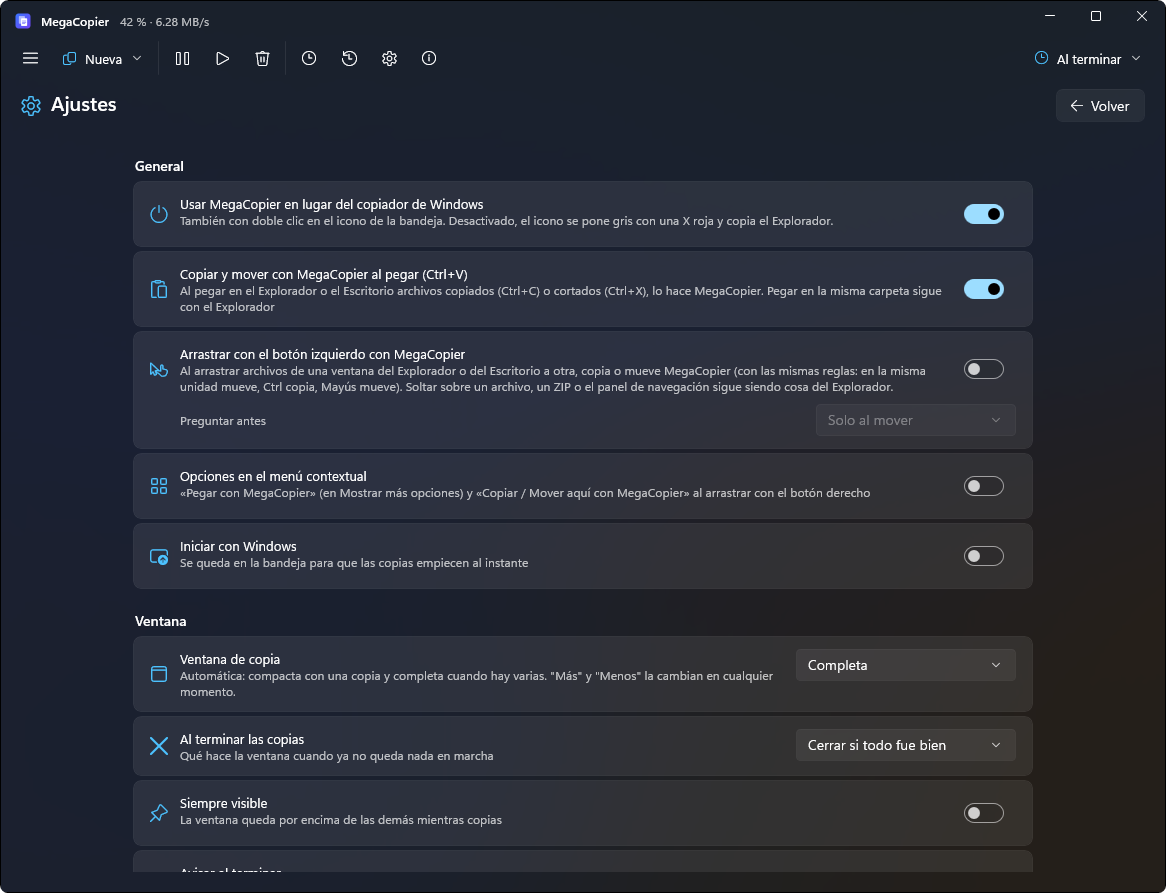
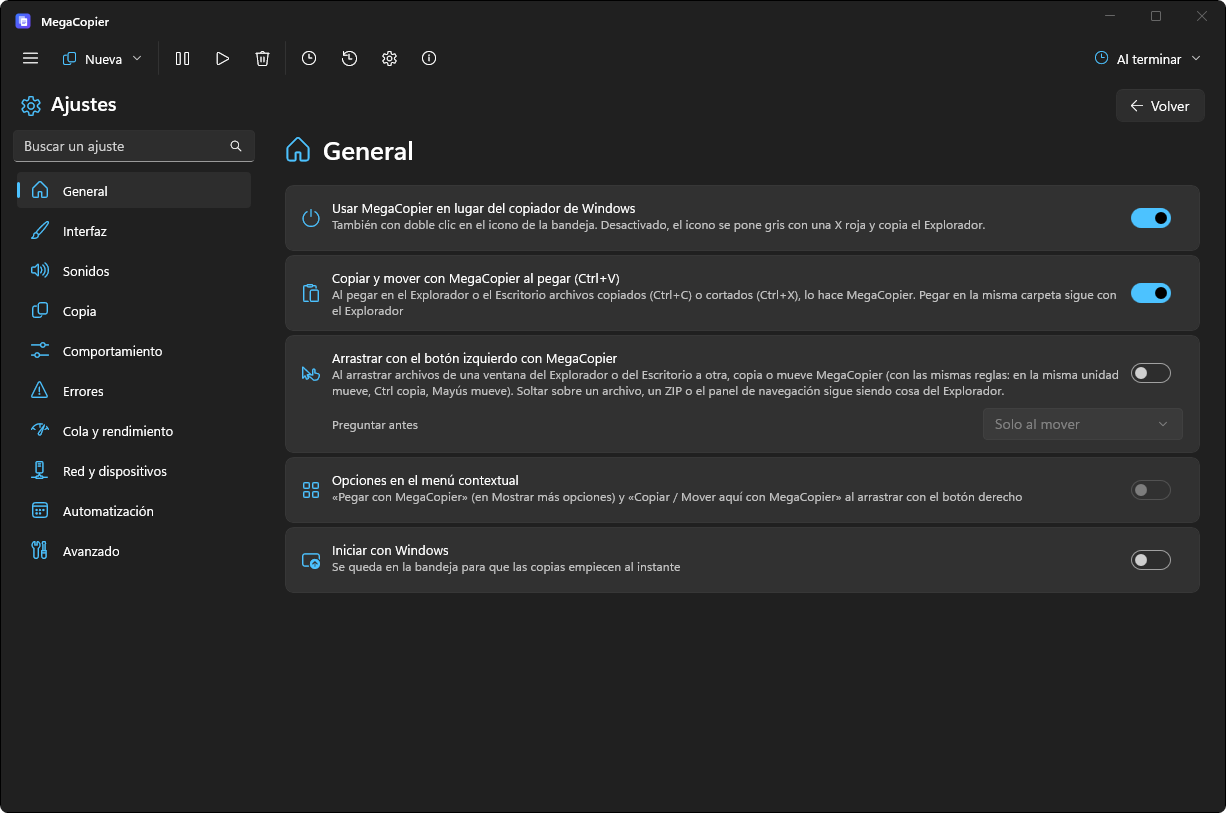
Arreglos de los ajustes (ancho del contenido, animación por traslación, halo neón al arrancar) y capturas nuevas: ajustes, 28 temas y 7 conjuntos de iconos

diff --git a/src/MegaCopier.App/Views/SettingsPage.xaml b/src/MegaCopier.App/Views/SettingsPage.xaml
@@ -55,8 +55,8 @@
                     <c:McIcon x:Name="SectionIcon" FontSize="26" Accent="True" VerticalAlignment="Center" />
                     <TextBlock x:Name="SectionTitle" Style="{StaticResource McTitle}" FontSize="26" VerticalAlignment="Center" TextWrapping="Wrap" />
                 </StackPanel>
-                <ScrollViewer x:Name="SectionScroll" Grid.Row="1" Padding="24,0,24,20">
-            <StackPanel x:Name="SectionsHost" MaxWidth="900" HorizontalAlignment="Stretch">
+                <ScrollViewer x:Name="SectionScroll" Grid.Row="1" Padding="24,0,24,20" HorizontalScrollMode="Disabled" HorizontalScrollBarVisibility="Disabled">
+            <StackPanel x:Name="SectionsHost" MaxWidth="980" HorizontalAlignment="Left">
                 <InfoBar x:Name="RestartInfo" x:Uid="RestartInfo" Severity="Informational" IsClosable="False" IsOpen="False" Margin="0,8,0,0">
                     <InfoBar.ActionButton>
                         <Button x:Uid="RestartButton" Click="Restart_Click" />
@@ -409,7 +409,7 @@
                     <StackPanel Spacing="8">
                         <Grid Style="{StaticResource Row}" Tag="SettingRow">
                             <Grid.ColumnDefinitions><ColumnDefinition Width="Auto" /><ColumnDefinition Width="*" /><ColumnDefinition Width="Auto" /></Grid.ColumnDefinitions>
-                            <c:McIcon VerticalAlignment="Center" Glyph="&#xE7E7;" FontSize="18" Accent="True" />
+                            <c:McIcon VerticalAlignment="Center" Glyph="&#xE88E;" FontSize="18" Accent="True" />
                             <StackPanel Grid.Column="1"><TextBlock x:Name="EjectTitleLabel" x:Uid="Settings_EjectTitle" Style="{StaticResource McBody}" TextWrapping="Wrap" /><TextBlock x:Uid="Settings_EjectDescription" Style="{StaticResource McSecondary}" TextWrapping="Wrap" /></StackPanel>
                             <ToggleSwitch x:Name="EjectToggle" AutomationProperties.LabeledBy="{x:Bind EjectTitleLabel}" Grid.Column="2" OnContent="" OffContent="" MinWidth="0" Toggled="Changed" />
                         </Grid>

diff --git a/src/MegaCopier.App/Views/SettingsPage.Sections.cs b/src/MegaCopier.App/Views/SettingsPage.Sections.cs
@@ -245,6 +245,8 @@ public sealed partial class SettingsPage
     /// <summary>La sección nueva entra deslizándose y apareciendo.</summary>
     private static void SlideIn(UIElement element)
     {
+        // Translation (no Offset): Offset lo pone el diseño de la página y animarlo descoloca el contenido.
+        ElementCompositionPreview.SetIsTranslationEnabled(element, true);
         var visual = ElementCompositionPreview.GetElementVisual(element);
         var compositor = visual.Compositor;
         var fade = compositor.CreateScalarKeyFrameAnimation();
@@ -256,7 +258,7 @@ public sealed partial class SettingsPage
         slide.InsertKeyFrame(1, Vector3.Zero, compositor.CreateCubicBezierEasingFunction(new Vector2(0.1f, 0.9f), new Vector2(0.2f, 1f)));
         slide.Duration = TimeSpan.FromMilliseconds(320);
         visual.StartAnimation("Opacity", fade);
-        visual.StartAnimation("Offset", slide);
+        visual.StartAnimation("Translation", slide);
     }
 
     // ---------------------------------------------------------------------------------------------------------

diff --git a/src/MegaCopier.App/Controls/McIcon.cs b/src/MegaCopier.App/Controls/McIcon.cs
@@ -169,7 +169,11 @@ public sealed partial class McIcon : UserControl
 
             case IconStyle.Neon:
                 _glyph.Foreground = new SolidColorBrush(Lighten(color, 0.25));
-                AddGlow(color);
+                if (IsLoaded)
+                {
+                    AddGlow(color); // al cargarse se vuelve a dibujar: el halo necesita el icono ya en pantalla
+                }
+
                 break;
         }
     }
@@ -203,7 +207,7 @@ public sealed partial class McIcon : UserControl
 
     private void UpdateGlowSize()
     {
-        if (_glow is not null)
+        if (_glow is not null && _glyph.IsLoaded && _tile.IsLoaded)
         {
             var size = new Vector2((float)_glyph.ActualWidth, (float)_glyph.ActualHeight);
             _glow.Size = size;

diff --git a/README.md b/README.md
@@ -133,38 +133,98 @@ Todo explicado paso a paso en la **[guía de uso](docs/Guia.md)**.
 </tr>
 <tr>
 <td><img src="docs/capturas/terminadas.png" alt="Copias terminadas"><br><b>Al terminar</b>: resumen, «Abrir carpeta» y lo omitido.</td>
-<td><img src="docs/capturas/ajustes.png" alt="Ajustes"><br><b>Ajustes</b>, explicados uno a uno.</td>
+<td><img src="docs/capturas/ajustes.png" alt="Ajustes"><br><b>Ajustes</b> como la Configuración de Windows 11: secciones, buscador e iconos.</td>
+</tr>
+<tr>
+<td><img src="docs/capturas/ajustes-comportamiento.png" alt="Ajustes de comportamiento"><br><b>Comportamiento</b>: sumar copias, borrar lo que quedó a medias, expulsar el USB.</td>
+<td><img src="docs/capturas/ajustes-errores.png" alt="Ajustes de errores"><br><b>Errores</b>: preguntar qué hacer, reintentos e informe de errores.</td>
+</tr>
+<tr>
+<td colspan="2"><img src="docs/capturas/ajustes-madera.png" alt="Ajustes con el tema Madera y los iconos Mosaico"><br>Tema <b>Madera</b> con los iconos <b>Mosaico</b>: cualquier tema con cualquier conjunto de iconos.</td>
+
 </tr>
 </table>
 
 ### Temas
 
-Once temas que cambian toda la interfaz al momento, más un editor para crear los tuyos.
+**52 temas** que cambian toda la interfaz al momento, hasta los botones, los menús y las barras de desplazamiento. Muchos
+se inspiran en los temas clásicos de SuperCopier, rehechos al estilo de Windows 11, y algunos tienen textura de fondo.
+Además, un editor para crear los tuyos.
 
 <table>
 <tr>
-<td width="50%"><img src="docs/capturas/temas/fluent-dark.png" alt="Fluent oscuro"><br>Fluent oscuro</td>
-<td width="50%"><img src="docs/capturas/temas/fluent-light.png" alt="Fluent claro"><br>Fluent claro</td>
+<td width="33%"><img src="docs/capturas/temas/combustion.png" alt="Combustión"><br>Combustión</td>
+<td width="33%"><img src="docs/capturas/temas/codigo-verde.png" alt="Código verde"><br>Código verde</td>
+<td width="33%"><img src="docs/capturas/temas/aurora.png" alt="Aurora"><br>Aurora</td>
 </tr>
 <tr>
+<td><img src="docs/capturas/temas/galaxia.png" alt="Galaxia"><br>Galaxia</td>
+<td><img src="docs/capturas/temas/neon.png" alt="Neón"><br>Neón</td>
+<td><img src="docs/capturas/temas/caja-negra.png" alt="Caja negra"><br>Caja negra</td>
+</tr>
+<tr>
+<td><img src="docs/capturas/temas/madera.png" alt="Madera"><br>Madera</td>
+<td><img src="docs/capturas/temas/cuaderno.png" alt="Cuaderno"><br>Cuaderno</td>
+<td><img src="docs/capturas/temas/cristal.png" alt="Cristal"><br>Cristal</td>
+</tr>
+<tr>
+<td><img src="docs/capturas/temas/burbuja-azul.png" alt="Burbuja azul"><br>Burbuja azul</td>
+<td><img src="docs/capturas/temas/berenjena.png" alt="Berenjena"><br>Berenjena</td>
+<td><img src="docs/capturas/temas/humo.png" alt="Humo"><br>Humo</td>
+</tr>
+<tr>
+<td><img src="docs/capturas/temas/sc3-azul.png" alt="SuperCopier 3 azul"><br>SuperCopier 3 azul</td>
+<td><img src="docs/capturas/temas/metro-oscuro.png" alt="Metro oscuro"><br>Metro oscuro</td>
+<td><img src="docs/capturas/temas/aero.png" alt="Aero"><br>Aero</td>
+</tr>
+<tr>
+<td><img src="docs/capturas/temas/luna.png" alt="Luna"><br>Luna</td>
+<td><img src="docs/capturas/temas/aire.png" alt="Aire"><br>Aire</td>
+<td><img src="docs/capturas/temas/menta.png" alt="Menta"><br>Menta</td>
+</tr>
+<tr>
+<td><img src="docs/capturas/temas/fluent-dark.png" alt="Fluent oscuro"><br>Fluent oscuro</td>
+<td><img src="docs/capturas/temas/fluent-light.png" alt="Fluent claro"><br>Fluent claro</td>
 <td><img src="docs/capturas/temas/midnight.png" alt="Medianoche"><br>Medianoche</td>
-<td><img src="docs/capturas/temas/graphite.png" alt="Grafito"><br>Grafito</td>
 </tr>
 <tr>
 <td><img src="docs/capturas/temas/ocean.png" alt="Océano"><br>Océano</td>
 <td><img src="docs/capturas/temas/forest.png" alt="Bosque"><br>Bosque</td>
-</tr>
-<tr>
 <td><img src="docs/capturas/temas/sunset.png" alt="Atardecer"><br>Atardecer</td>
-<td><img src="docs/capturas/temas/supercopier.png" alt="SuperCopier clásico"><br>SuperCopier clásico</td>
 </tr>
 <tr>
+<td><img src="docs/capturas/temas/supercopier.png" alt="SuperCopier clásico"><br>SuperCopier clásico</td>
 <td><img src="docs/capturas/temas/ultracopier.png" alt="Ultracopier clásico"><br>Ultracopier clásico</td>
 <td><img src="docs/capturas/temas/contrast.png" alt="Alto contraste"><br>Alto contraste</td>
 </tr>
 </table>
 
-El undécimo, **Fluent (como Windows)**, sigue solo el modo claro u oscuro y el color de acento de Windows.
+Y otros 24: Grafito, Robot verde, Cielo de otoño, Ámbar, Granate, Vapor, Metro gris, Televisión, Reproductor,
+SuperCopier 3 verde y naranja, Metro claro, Pez azul, Línea plana, Plus, Cielo, Brillo, Nieve, Burbuja lima, Tóxico,
+Naranja tierra, Moderno 8, Mensajero y Plata. **Fluent (como Windows)** sigue el modo claro u oscuro y el color de acento
+de Windows.
+
+### Conjuntos de iconos
+
+Siete estilos de iconos, todos con los iconos modernos de Windows 11, que se combinan con cualquier tema:
+
+<table>
+<tr>
+<td width="50%"><img src="docs/capturas/iconos/fluent.png" alt="Fluent"><br><b>Fluent</b>: como Windows.</td>
+<td width="50%"><img src="docs/capturas/iconos/color.png" alt="Color"><br><b>Color</b>: cada icono con su color.</td>
+</tr>
+<tr>
+<td><img src="docs/capturas/iconos/mosaico.png" alt="Mosaico"><br><b>Mosaico</b>: sobre un cuadrado de color, como la Configuración de Windows 11.</td>
+<td><img src="docs/capturas/iconos/suave.png" alt="Suave"><br><b>Suave</b>: con un fondo suave de su color.</td>
+</tr>
+<tr>
+<td><img src="docs/capturas/iconos/degradado.png" alt="Degradado"><br><b>Degradado</b>: con los colores de las barras del tema.</td>
+<td><img src="docs/capturas/iconos/neon.png" alt="Neón"><br><b>Neón</b>: con un halo de luz.</td>
+</tr>
+<tr>
+<td colspan="2"><img src="docs/capturas/iconos/windows10.png" alt="Windows 10"><br><b>Windows 10</b>: los iconos clásicos.</td>
+</tr>
+</table>
 
 ---
 
